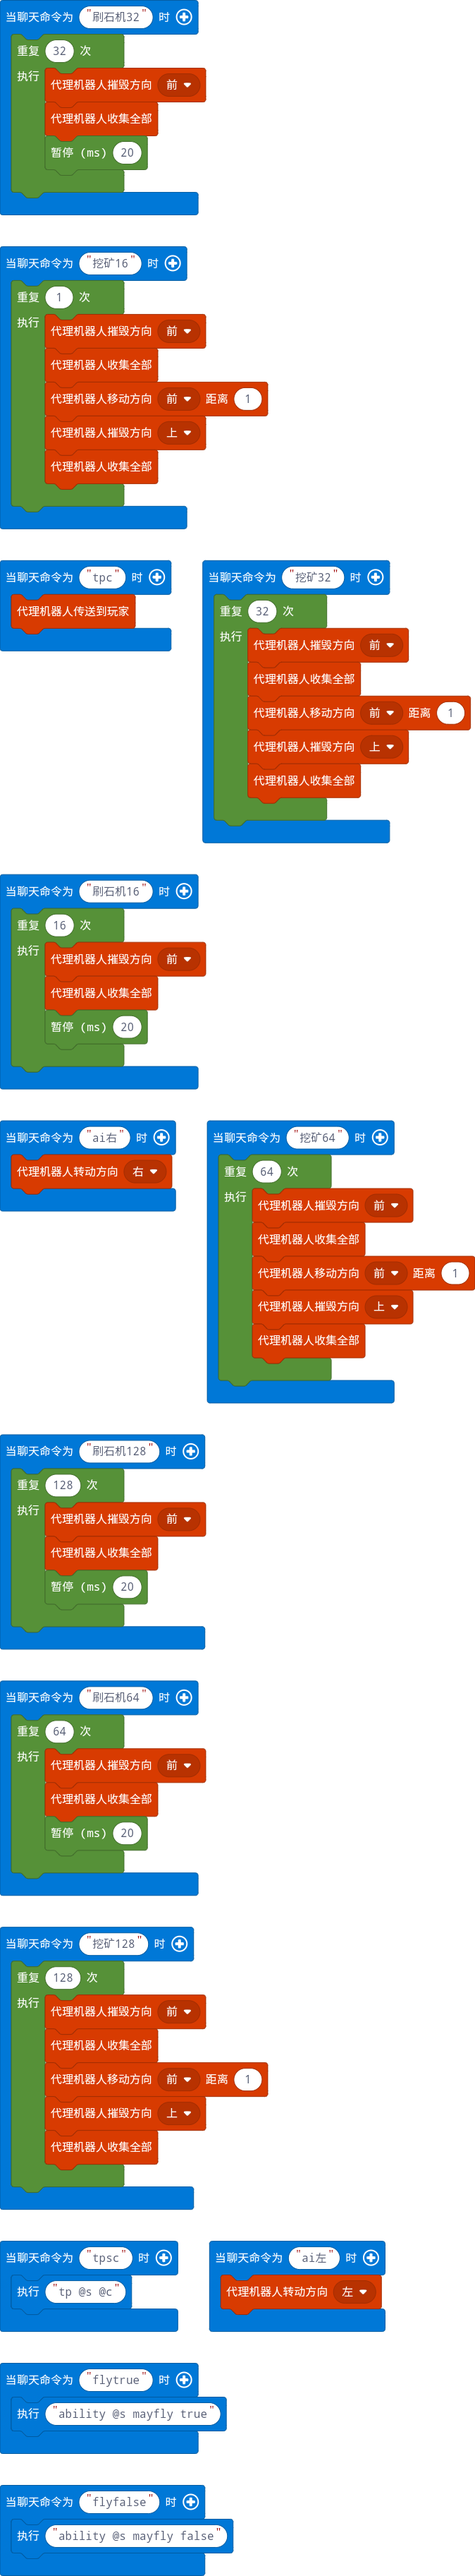
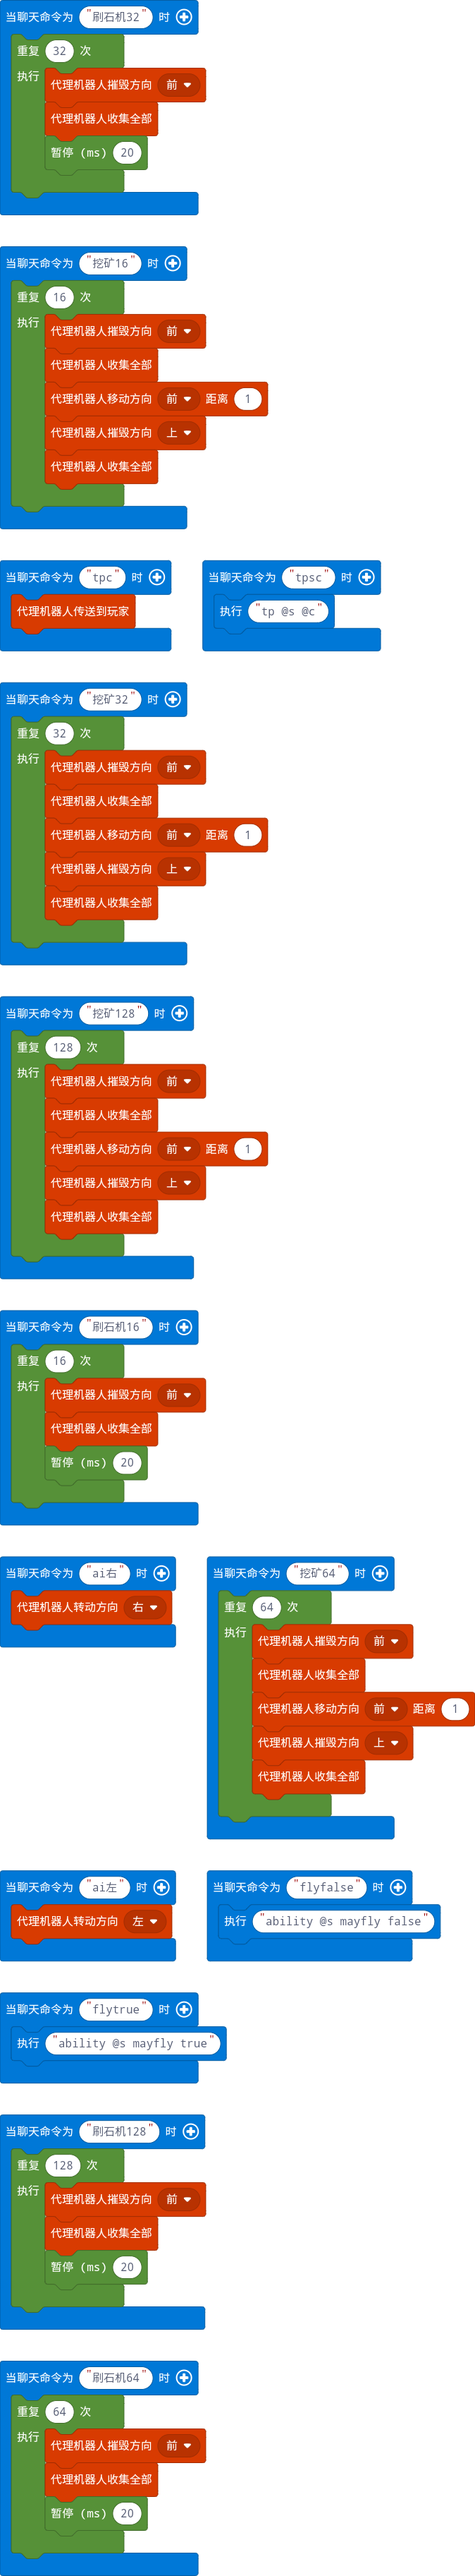
？

diff --git a/main.ts b/main.ts
@@ -6,7 +6,7 @@ player.onChat("刷石机32", function () {
     }
 })
 player.onChat("挖矿16", function () {
-    for (let index = 0; index < 1; index++) {
+    for (let index = 0; index < 16; index++) {
         agent.destroy(FORWARD)
         agent.collectAll()
         agent.move(FORWARD, 1)
